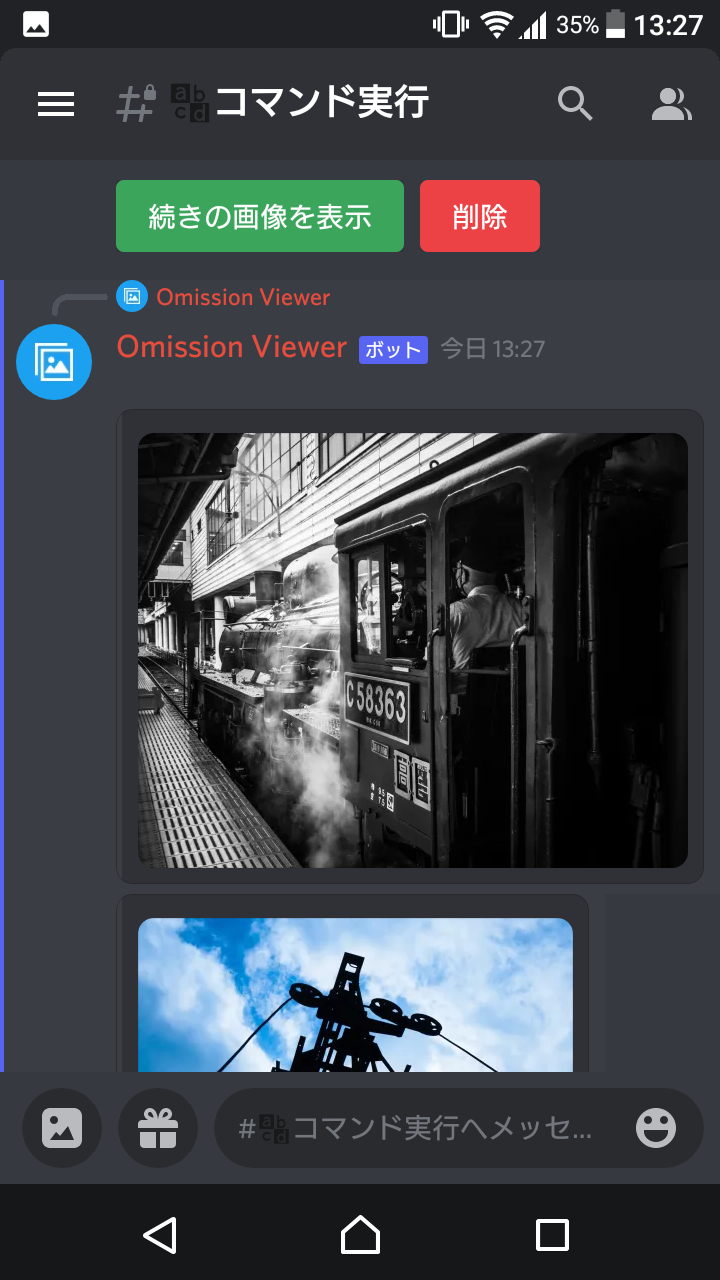
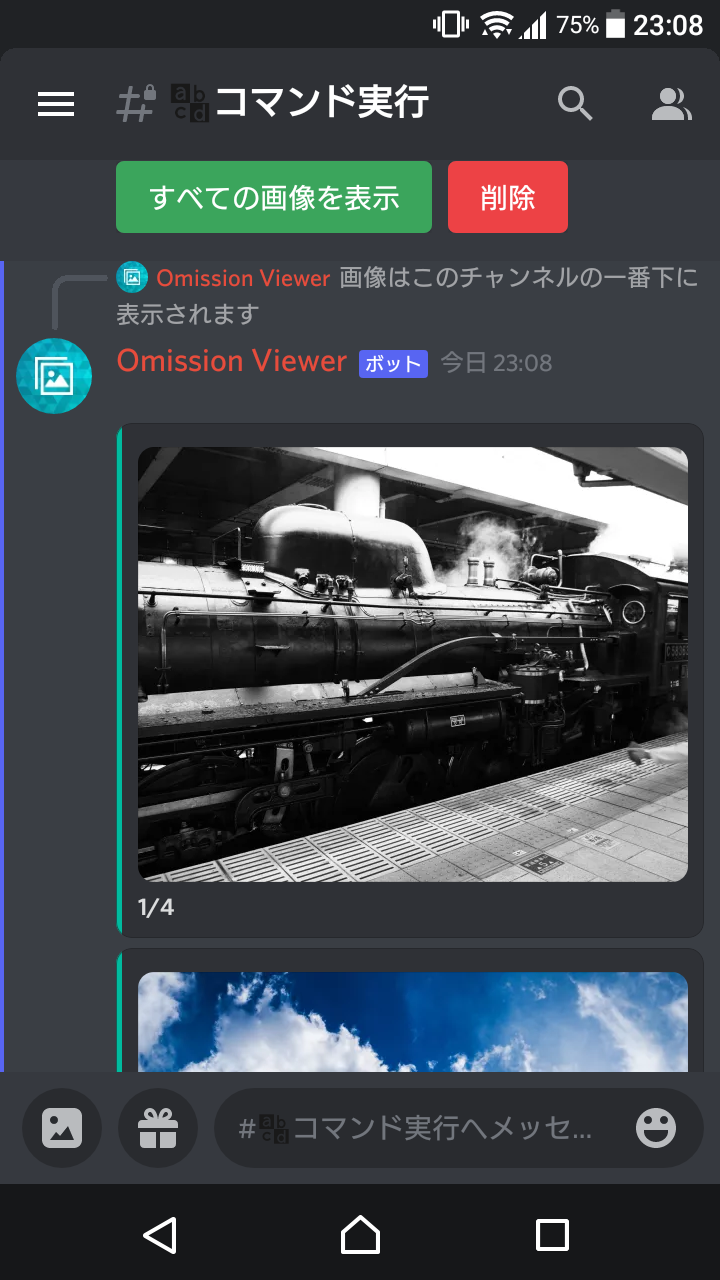
Update document and images

diff --git a/docs/index.html b/docs/index.html
@@ -39,8 +39,15 @@
 
     <h2>使い方</h2>
     <p>2枚以上の画像を含んだツイート等のURLを投稿すると、このBOTから操作ボタンが送信されます。</p>
-    <p><span class="btn btn-success btn-sm">続きの画像を表示</span> を押すと、押したユーザーにのみ、2枚目以降の画像が表示されます。</p>
-    <p><span class="btn btn-danger btn-sm">削除</span> を押すと、操作ボタンを削除できます。（ただし、URLを投稿した本人のみ）</p>
+    <p>
+      <span class="btn btn-success btn-sm">すべての画像を表示</span>
+      を押すと、押したユーザーにのみ、1枚目を含むすべての画像が、
+      そのチャンネルの一番下に表示されます。
+    </p>
+    <p>
+      <span class="btn btn-danger btn-sm">削除</span>
+      を押すと、操作ボタンを削除できます。（ただし、URLを投稿した本人のみ）
+    </p>
 
     <div class="row">
       <div class="col-6"><img class="img-fluid" src="./images/before.png" /></div>
